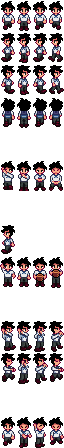
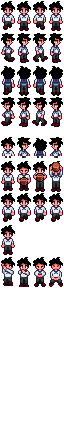
feat: 重映射精灵图布局，修复多个bug
- 动画帧重新映射匹配新精灵图：standing(1), sitting(16), drinking(20-23), fishing(32-35)
- 移除已废弃动画：exercise, selling, reading
- 修复2心事件玩家穿模摊位，限制移动范围
- 修复8心事件动画帧引用
- 修复成就描述中慧杰性别代词（她→他）
- 喝酒动画降速（持有帧16→40）
- 更新精灵图

diff --git a/docs/testing_guide.md b/docs/testing_guide.md
@@ -76,13 +76,10 @@
 
 | 动画 | 触发条件 | 观察位置 |
 |------|----------|----------|
-| `huijie_exercise` (俯卧撑) | 雨天酒馆内、森林日程 | Saloon/Forest |
-| `huijie_sitting` | 雨天酒馆内 | Saloon |
-| `huijie_reading` | 酒馆看书 | Saloon |
-| `huijie_selling` | 镇上卖桃子 | Town |
-| `huijie_fishing` | 海滩日程 | Beach |
-| `huijie_sitting_drinking` | 周五晚喝酒 | Saloon |
-| `huijie_standing` | 站立 | 各处 |
+| `huijie_standing` (空闲站立) | 每日操练时间、镇上卖桃子 | 各处 |
+| `huijie_sitting` (坐姿) | 酒馆坐着、冬季看书 | Saloon |
+| `huijie_drinking` (喝酒) | 每日晚间喝酒 | Saloon |
+| `huijie_fishing` (钓鱼) | 海滩日程 | Beach |
 
 > 测试方法：按日程时间前往对应地点，观察动画是否流畅播放。
 

diff --git a/docs/schedule_guide.md b/docs/schedule_guide.md
@@ -353,12 +353,9 @@
 
 | 动画名 | 含义 | 使用场景 |
 |--------|------|----------|
-| huijie_exercise | 俯卧撑 | 每日操练时间 |
-| huijie_sitting_drinking | 坐着喝酒 | 酒吧晚间 |
-| huijie_reading | 看书 | 酒吧看书时间 |
-| huijie_sitting | 坐着 | 雨天发呆 |
-| huijie_standing | 站立 | 默认站立 |
-| huijie_selling | 卖东西 | 卖桃子时 |
+| huijie_standing | 空闲站立 | 操练时间、卖桃子 |
+| huijie_drinking | 喝酒 | 酒吧晚间 |
+| huijie_sitting | 坐姿 | 酒馆坐着、冬季看书 |
 | huijie_fishing | 钓鱼 | 海边/山区钓鱼 |
 
 ---
